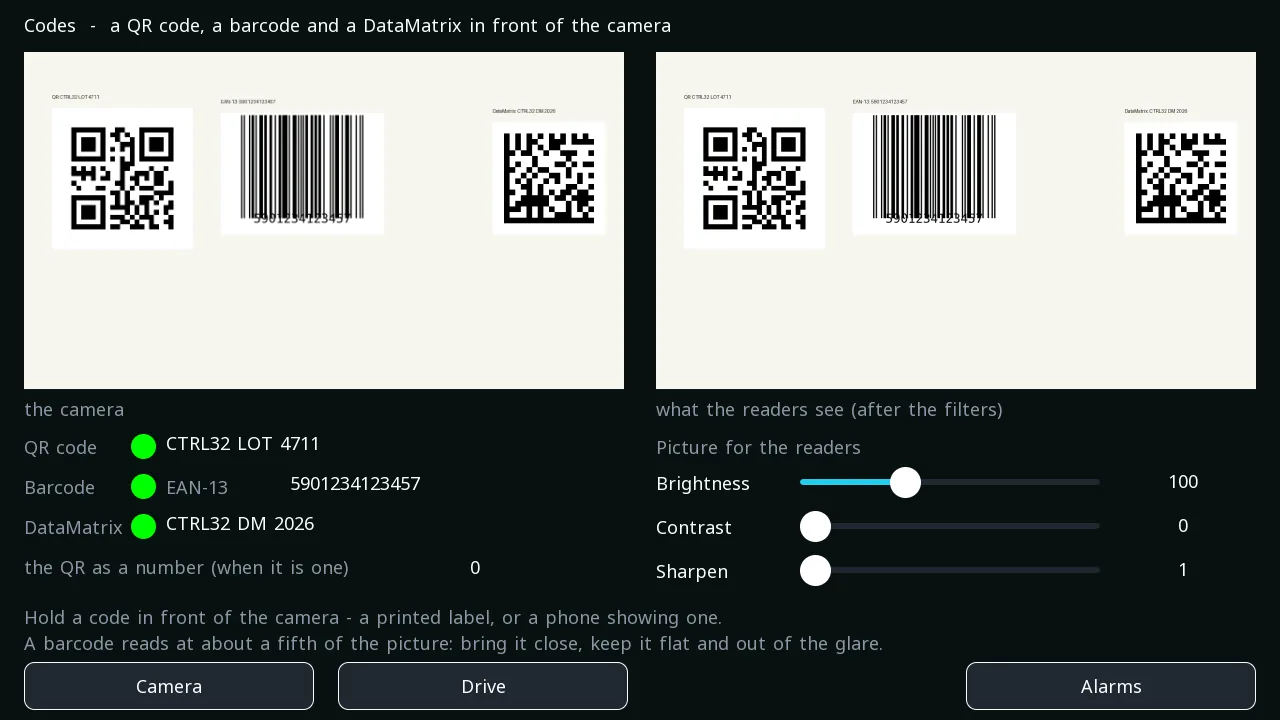
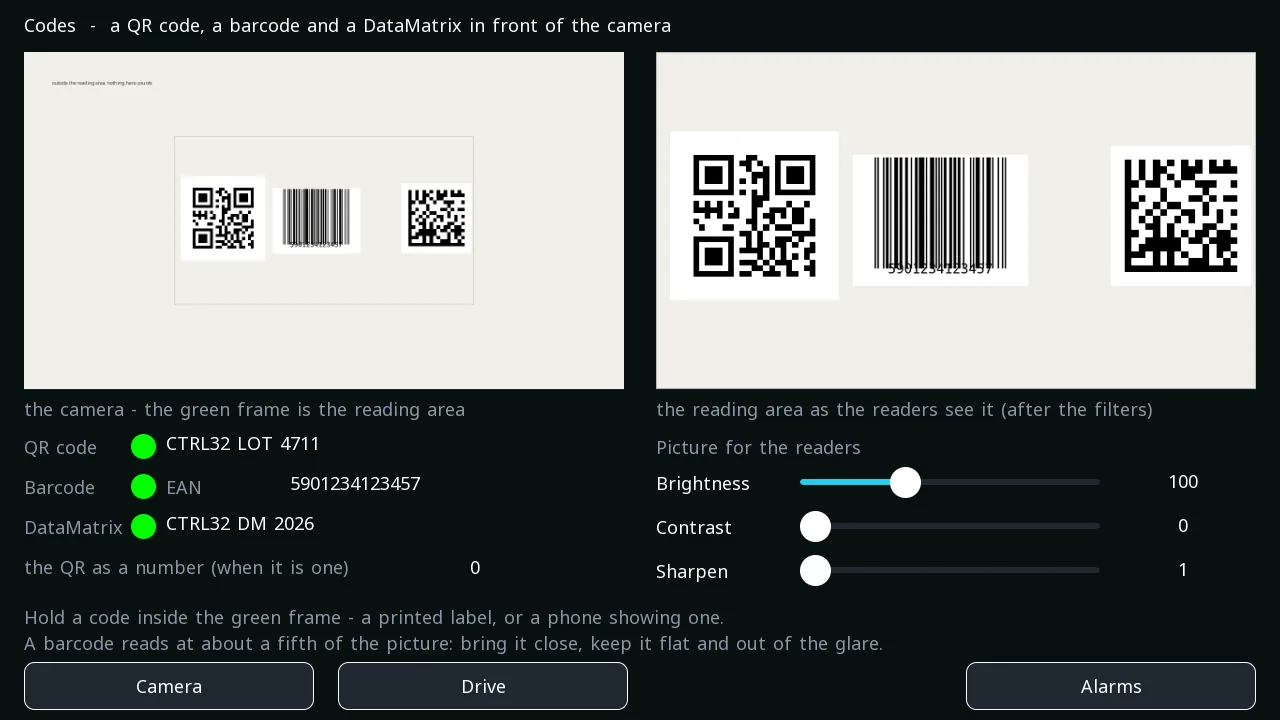
The Codes screen: a reading window (Crop) with its green frame on the camera picture

diff --git a/docs/example-reterminal-ecat.md b/docs/example-reterminal-ecat.md
@@ -267,9 +267,12 @@ the QR's value as a number when it is one (an EAN-13 label reads as
 its thirteen digits — as text: thirteen digits do not fit a number
 exactly, so a barcode's value is its text).
 
-The screen shows **two pictures**: the camera on the left and, on the
-right, what the readers get — the Sharpen block's picture, live (a
-camera element whose text names the block as `codes.shp`). Under them
+The screen shows **two pictures**: the camera on the left, with a
+green frame marking the **reading area** — the middle of the picture,
+a Crop block the readers work on, so a code held elsewhere does not
+count and the search costs a quarter — and, on the right, that area
+as the readers get it, the Sharpen block's picture, live (a camera
+element whose text names the block as `prep.shp`). Under them
 sit three sliders — **Brightness, Contrast, Sharpen** — for that
 prepared picture, neutral by default (100, 0, 1 = the camera's own
 picture): a glossy label under a lamp wants less light, a soft picture
